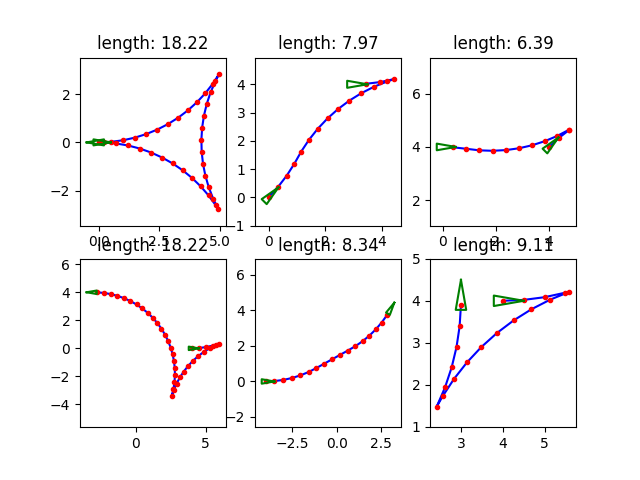
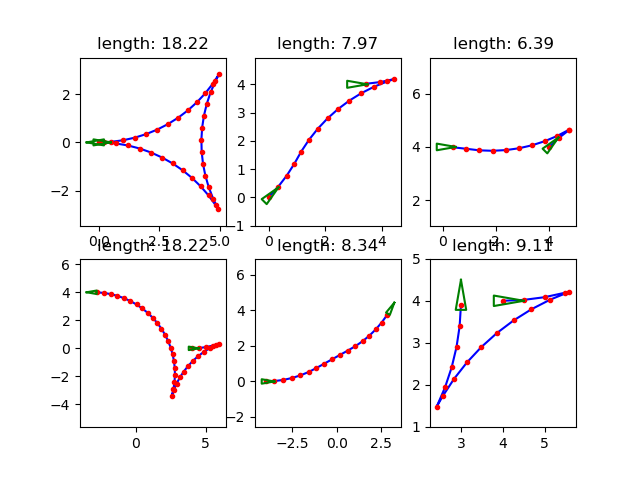
modify path_type to return acutal length

diff --git a/reeds_shepp/src/reeds_shepp.cpp b/reeds_shepp/src/reeds_shepp.cpp
@@ -553,7 +553,7 @@ void ReedsSheppStateSpace::type(double q0[3], double q1[3], ReedsSheppPathTypeCa
 {
     ReedsSheppPath path = reedsShepp(q0, q1);
     for (int i=0;i<5;++i)
-        cb(path.type_[i], path.length_[i], user_data);
+        cb(path.type_[i], rho_ * path.length_[i], user_data);
     return;
 }
 
